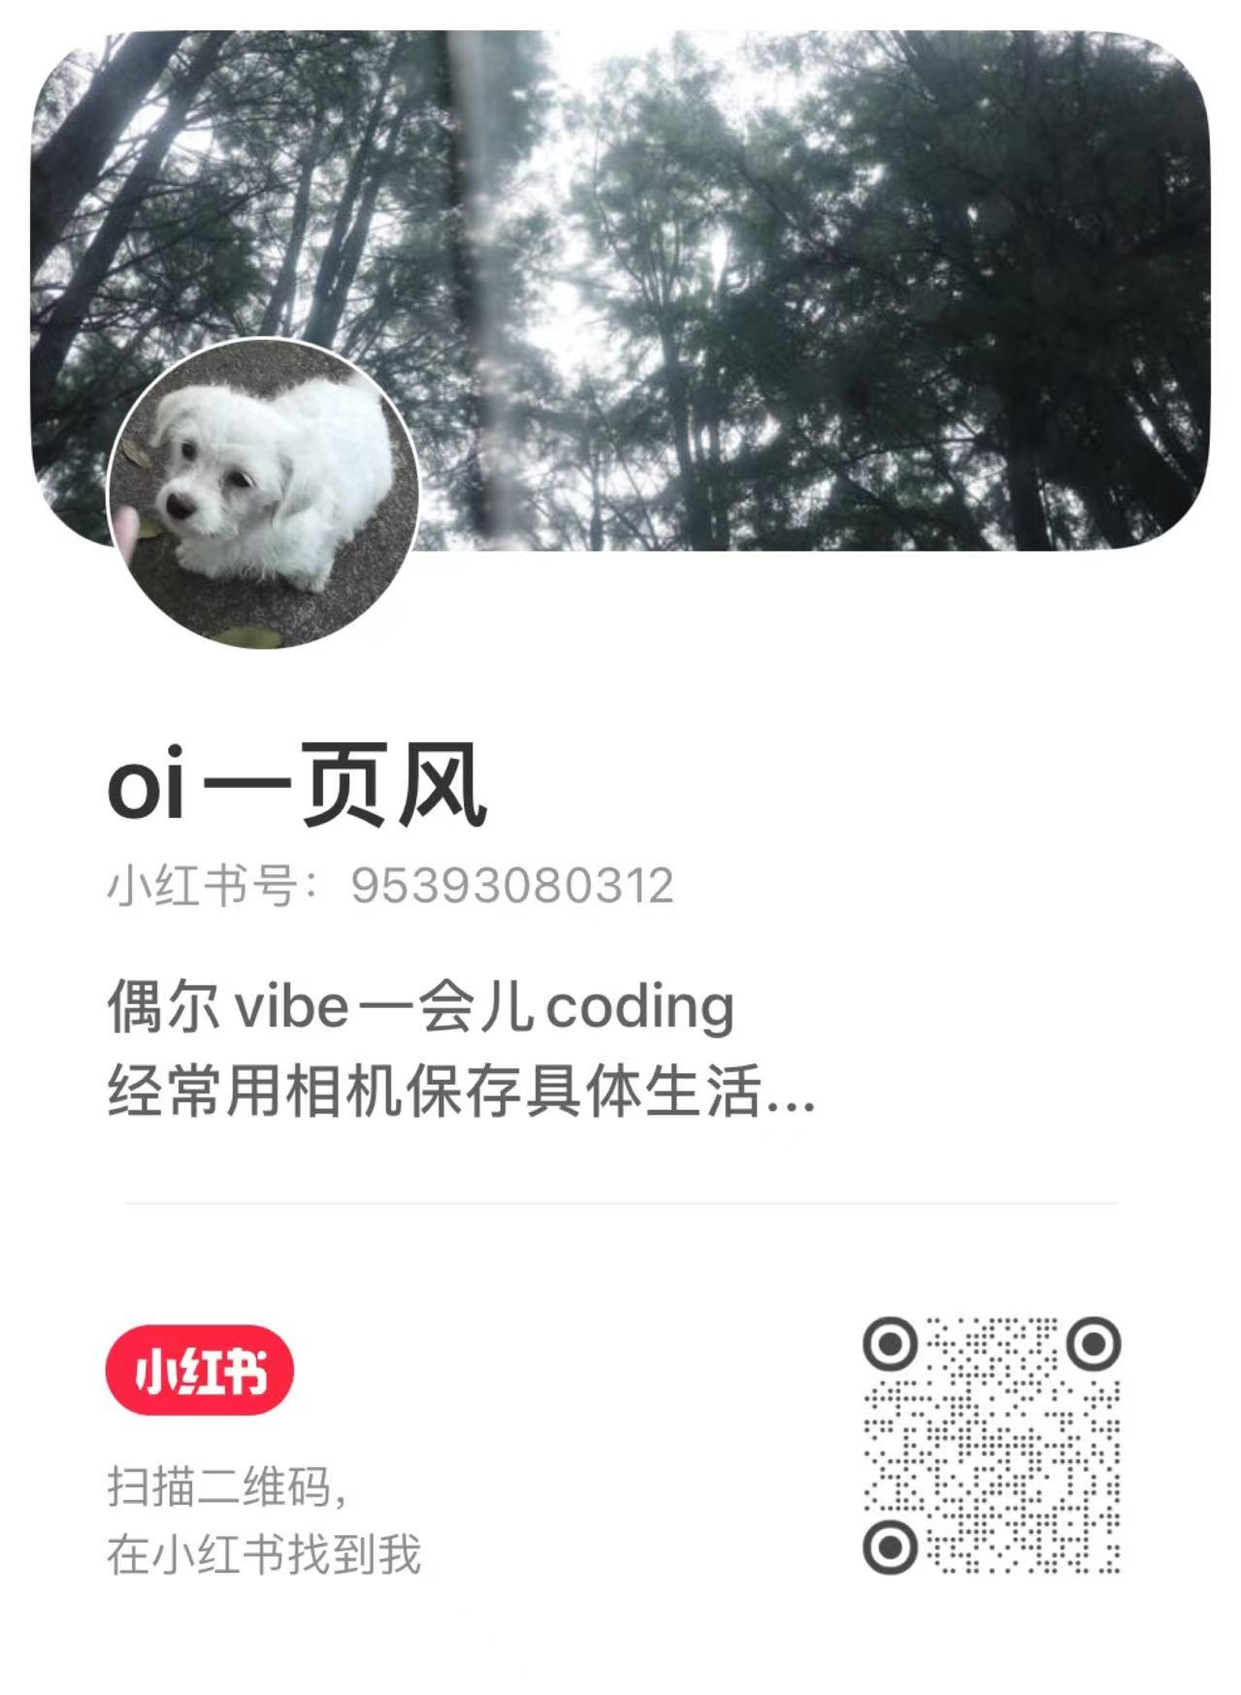
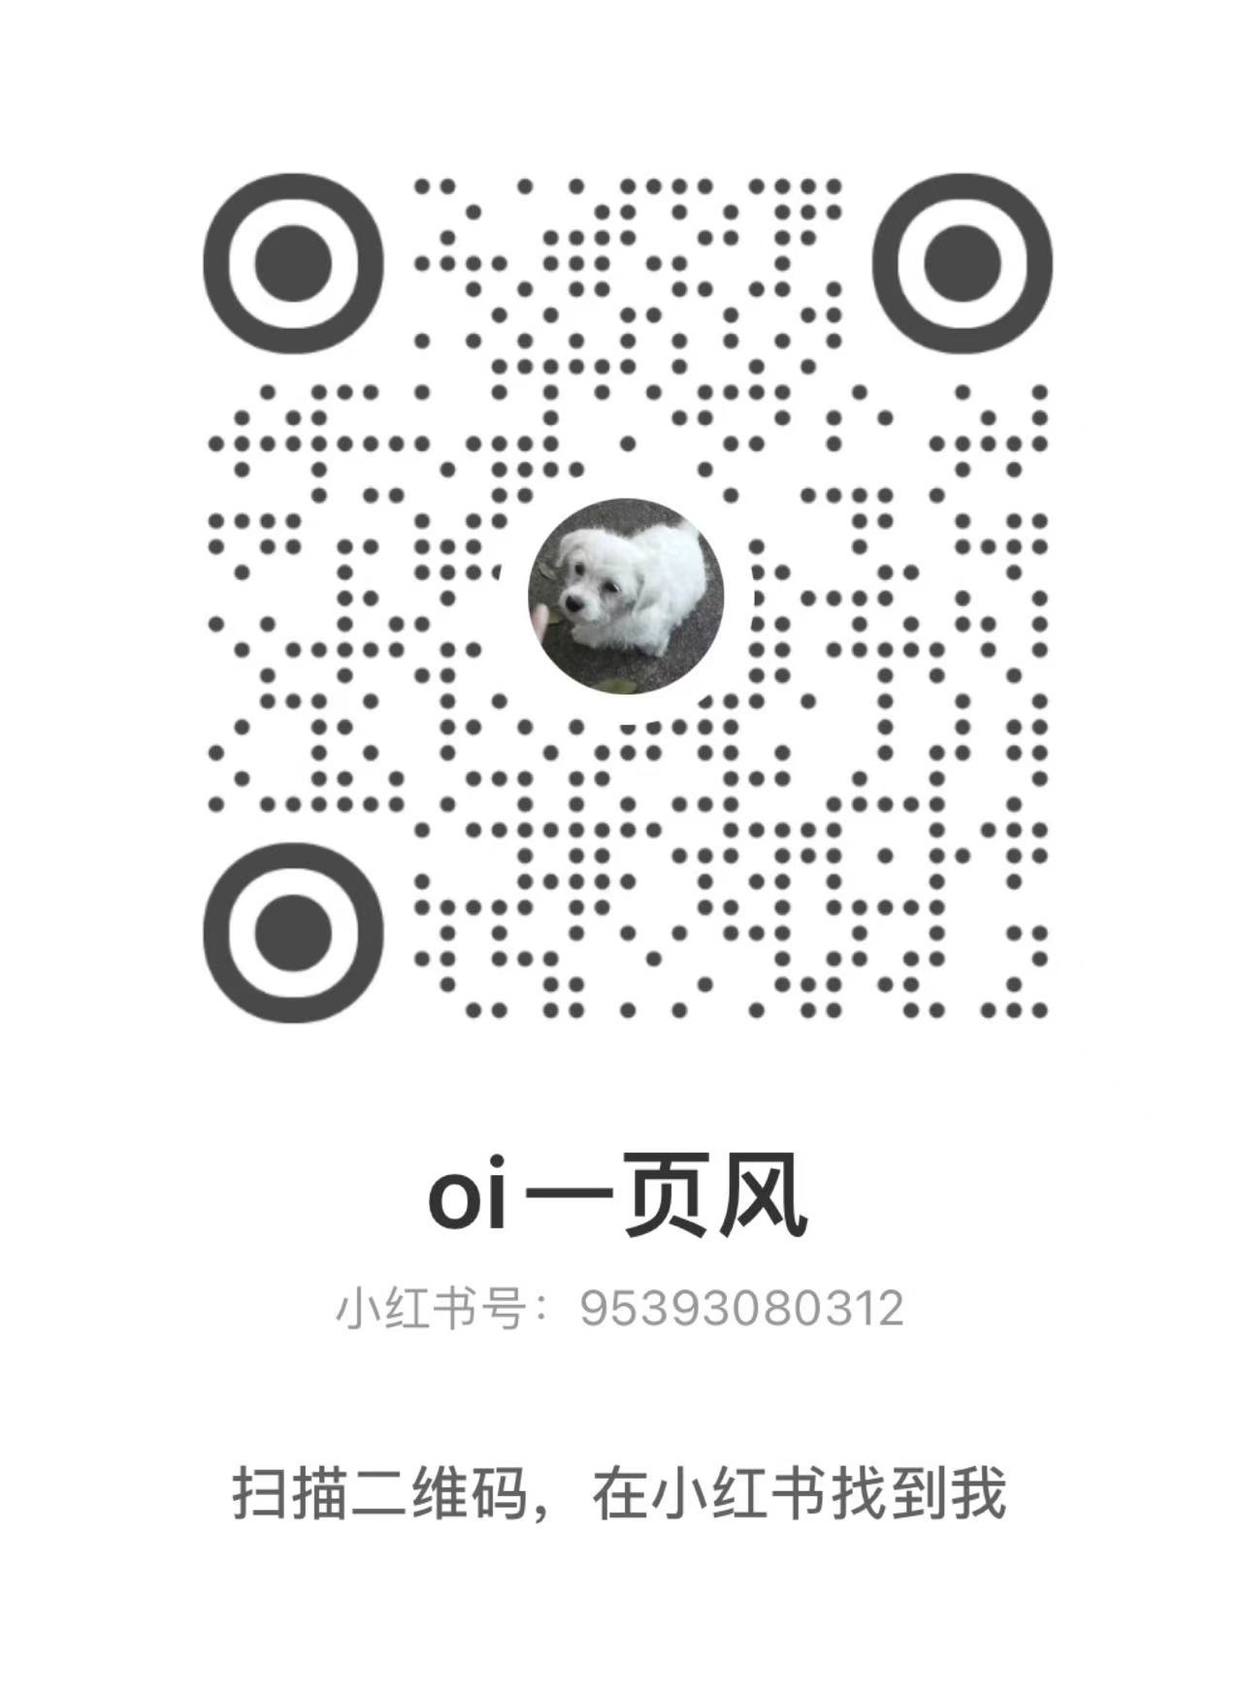
feat: add sponsor channels to app and site

diff --git a/website/src/styles.css b/website/src/styles.css
@@ -137,6 +137,7 @@ button { font: inherit; }
 .faq { padding-top:70px; }.faq .section-heading { max-width:none; }.faq .section-heading h2 { white-space:nowrap; }.faq-list { border-top:1px solid var(--line); }.faq details { border-bottom:1px solid var(--line); }.faq summary { min-height:78px;display:flex;align-items:center;justify-content:space-between;gap:22px;list-style:none;cursor:pointer;font-size:15px;font-weight:630; }.faq summary::-webkit-details-marker { display:none; }.faq summary span { position:relative;width:22px;height:22px;flex:none; }.faq summary span::before,.faq summary span::after { content:"";position:absolute;left:50%;top:50%;width:12px;height:1px;background:#827d74;transform:translate(-50%,-50%);transition:transform .18s ease; }.faq summary span::after { transform:translate(-50%,-50%) rotate(90deg); }.faq details[open] summary span::after { transform:translate(-50%,-50%) rotate(0); }.faq details p { max-width:720px;margin:-5px 0 26px;color:var(--muted);font-size:12px;line-height:1.8; }
 
 .final-cta { display:flex;flex-direction:column;align-items:center;text-align:center;padding-top:160px;padding-bottom:170px;border-top:1px solid var(--line); }.final-cta > img { width:76px;height:76px;margin-bottom:23px;border-radius:19px;box-shadow:0 18px 60px rgba(244,185,66,.17); }.final-cta h2 { margin:18px 0 32px; }.final-cta .primary-cta { text-align:left; }
+.sponsor-section { padding-top:0;padding-bottom:112px; }.sponsor-shell { position:relative;display:grid;grid-template-columns:minmax(0,.9fr) minmax(330px,1.1fr);gap:clamp(44px,7vw,104px);overflow:hidden;padding:clamp(30px,4vw,52px);border:1px solid rgba(244,185,66,.3);border-radius:24px;background:radial-gradient(circle at 0 100%,rgba(244,185,66,.14),transparent 38%),linear-gradient(135deg,#201d16,#171612 57%,#1c1a15);box-shadow:inset 0 1px rgba(255,255,255,.045); }.sponsor-shell::before { content:"";position:absolute;right:-88px;top:-110px;width:270px;height:270px;border:1px solid rgba(244,185,66,.15);border-radius:50%;box-shadow:0 0 0 28px rgba(244,185,66,.025),0 0 0 56px rgba(244,185,66,.018);pointer-events:none; }.sponsor-qr-column,.sponsor-list-column { position:relative;z-index:1; }.sponsor-qr-column h2 { margin:14px 0 17px;font-family:"Songti SC","STSong",serif;font-size:clamp(33px,3.6vw,51px);font-weight:650;letter-spacing:-.055em;line-height:1.12; }.sponsor-qr-column h2 em { color:var(--amber);font-style:normal; }.sponsor-qr-column > p:last-of-type { max-width:430px;margin:0;color:var(--muted);font-size:12px;line-height:1.8; }.sponsor-qr-card { width:168px;margin:26px 0 0;padding:8px;border:1px solid rgba(244,185,66,.38);border-radius:13px;background:#f4f0e7;box-shadow:0 15px 36px rgba(0,0,0,.24); }.sponsor-qr-card img { display:block;width:100%;height:auto;border-radius:7px; }.sponsor-qr-card figcaption { padding:9px 2px 1px;color:#5b4a2b;font:650 8px/1.3 "SFMono-Regular",Menlo,monospace;text-align:center; }.sponsor-list-column { align-self:stretch;display:flex;flex-direction:column;min-height:320px;padding:24px 26px;border-left:1px solid rgba(255,255,255,.1); }.sponsor-list-heading { display:flex;justify-content:space-between;align-items:baseline;gap:18px;padding-bottom:17px;border-bottom:1px solid rgba(255,255,255,.11); }.sponsor-list-heading span { color:#dcd5c8;font-family:"Songti SC","STSong",serif;font-size:21px;font-weight:650;letter-spacing:-.04em; }.sponsor-list { display:grid;gap:10px;margin:0;padding:19px 0;list-style:none; }.sponsor-list li { display:grid;grid-template-columns:26px 1fr;gap:13px;align-items:center;padding:13px 0;border-bottom:1px solid rgba(255,255,255,.07); }.sponsor-list li > b { color:var(--amber);font:650 9px/1 "SFMono-Regular",Menlo,monospace; }.sponsor-list li > div { display:grid;gap:5px; }.sponsor-list strong { color:#d5cec1;font-size:11px; }.sponsor-list small { color:#817b71;font-size:9px;line-height:1.5; }.sponsor-empty { min-height:74px; }.sponsor-note { margin:auto 0 0;color:#68635c;font-size:9px;line-height:1.65; }
 footer { display:grid;grid-template-columns:1fr 1.2fr auto;align-items:center;gap:26px;max-width:var(--max);margin:0 auto;padding:38px 0;border-top:1px solid var(--line);color:#77736b;font-size:10px; }.footer-brand img { width:36px;height:36px;border-radius:9px; }.footer-brand strong { color:#d9d3c8; }.footer-brand small { font-size:7px; }.footer-brand + p { margin:0; }.footer > div { display:flex;gap:18px; }.footer > small { grid-column:1/-1;color:#57544e;font-size:8px; }
 .site-footer { display:block;width:min(var(--max),calc(100% - 56px));padding:58px 0 30px; }
 .site-footer .footer-top { display:grid;grid-template-columns:minmax(230px,.72fr) minmax(560px,1.38fr);align-items:start;gap:clamp(72px,9vw,132px); }
@@ -164,10 +165,10 @@ footer { display:grid;grid-template-columns:1fr 1.2fr auto;align-items:center;ga
 [data-reveal] { opacity:0;transform:translateY(20px);transition:opacity .7s ease,transform .7s cubic-bezier(.2,.75,.2,1); }.hero [data-reveal]:nth-child(2) { transition-delay:.12s; }.workflow-list [data-reveal]:nth-child(2),.feature-grid [data-reveal]:nth-child(2) { transition-delay:.08s; }.workflow-list [data-reveal]:nth-child(3),.feature-grid [data-reveal]:nth-child(3) { transition-delay:.16s; }[data-reveal].is-visible { opacity:1;transform:translateY(0); }
 
 @media (max-width: 1040px) {
-  .site-header { padding:0 24px; }.hero { grid-template-columns:1fr;width:min(760px,calc(100% - 48px));padding-top:132px;text-align:center; }.hero-copy { display:grid;justify-items:center; }.hero .eyebrow { justify-content:center; }.product-stage { width:100%; }.real-window { transform:none; }.trust-rail { grid-template-columns:repeat(2,1fr); }.trust-rail > *:nth-child(2) { border-right:0; }.trust-rail > *:nth-child(n+3) { margin-top:14px;padding-top:20px;border-top:1px solid var(--line); }.trust-rail > *:nth-child(3) { padding-left:0; }.demo { grid-template-columns:1fr; }.demo-copy { max-width:690px; }.feature-card.wide { grid-template-columns:1fr; }.crop-settings { width:min(340px,100%);margin:4px auto 0; }.privacy-card { gap:25px; } footer { width:calc(100% - 48px); }.site-footer .footer-top { grid-template-columns:1fr;gap:48px; }.site-footer .footer-nav { max-width:680px; }
+  .site-header { padding:0 24px; }.hero { grid-template-columns:1fr;width:min(760px,calc(100% - 48px));padding-top:132px;text-align:center; }.hero-copy { display:grid;justify-items:center; }.hero .eyebrow { justify-content:center; }.product-stage { width:100%; }.real-window { transform:none; }.trust-rail { grid-template-columns:repeat(2,1fr); }.trust-rail > *:nth-child(2) { border-right:0; }.trust-rail > *:nth-child(n+3) { margin-top:14px;padding-top:20px;border-top:1px solid var(--line); }.trust-rail > *:nth-child(3) { padding-left:0; }.demo { grid-template-columns:1fr; }.demo-copy { max-width:690px; }.feature-card.wide { grid-template-columns:1fr; }.crop-settings { width:min(340px,100%);margin:4px auto 0; }.privacy-card { gap:25px; }.sponsor-shell { grid-template-columns:minmax(0,.9fr) minmax(300px,1fr);gap:38px; }.sponsor-list-column { padding:20px; } footer { width:calc(100% - 48px); }.site-footer .footer-top { grid-template-columns:1fr;gap:48px; }.site-footer .footer-nav { max-width:680px; }
 }
 @media (max-width: 760px) {
-  .site-header { height:66px;grid-template-columns:1fr auto; }.site-header nav,.github-link { display:none; }.header-download { min-height:36px; }.brand img { width:36px;height:36px;border-radius:9px; }.hero { width:calc(100% - 36px);padding:110px 0 64px; }.hero h1 { font-size:clamp(42px,12vw,61px); }.hero h1 em { display:inline-block; }.hero-lede { font-size:14px; }.hero-actions { flex-direction:column;gap:16px; }.product-stage { margin-top:15px; }.real-window { border-radius:12px; }.trust-rail { width:calc(100% - 36px); }.section { width:calc(100% - 36px);padding:88px 0; }.demo { gap:34px;padding-top:102px; }.demo-copy h2 { font-size:42px; }.demo-player { border-radius:14px; }.demo-player figcaption { min-height:42px;align-items:flex-start;flex-direction:column;justify-content:center;gap:4px; }.demo-toggle { right:12px;top:12px;width:38px;height:38px; }.section-heading { margin-bottom:38px; }.section-heading h2,.privacy h2,.final-cta h2 { font-size:42px; }.workflow-list,.feature-grid,.install-list,.support-grid { grid-template-columns:1fr; }.workflow-list li { min-height:auto; }.feature-card.wide { grid-column:auto;min-height:auto;padding-bottom:24px; }.feature-card { min-height:350px;padding:24px; }.feature-icon { height:210px; }.crop-settings { width:min(300px,100%);height:440px; }.privacy { width:100%;padding:86px 18px; }.privacy-card { min-height:0;grid-template-columns:1fr; }.privacy-orbit { width:300px; }.release-notice { grid-template-columns:1fr;gap:8px; }.support-card { min-height:250px; }.faq .section-heading h2 { white-space:normal; }.faq summary { font-size:13px; }.final-cta { padding-top:110px;padding-bottom:110px; } footer { width:calc(100% - 36px);grid-template-columns:1fr auto; }.footer-brand + p { display:none; }.footer > div { grid-column:1/-1;grid-row:2;flex-wrap:wrap;line-height:1.7; }.footer > small { grid-row:3; }.site-footer { display:block;padding:48px 0 26px; }.site-footer .footer-brand + p { display:block; }.site-footer .footer-nav { grid-template-columns:repeat(2,minmax(0,1fr));gap:38px 24px; }.site-footer .footer-bottom { flex-direction:column;gap:8px;margin-top:38px; }.footer-bottom small:last-child { max-width:none;text-align:left; }.legal-summary { grid-template-columns:1fr; }
+  .site-header { height:66px;grid-template-columns:1fr auto; }.site-header nav,.github-link { display:none; }.header-download { min-height:36px; }.brand img { width:36px;height:36px;border-radius:9px; }.hero { width:calc(100% - 36px);padding:110px 0 64px; }.hero h1 { font-size:clamp(42px,12vw,61px); }.hero h1 em { display:inline-block; }.hero-lede { font-size:14px; }.hero-actions { flex-direction:column;gap:16px; }.product-stage { margin-top:15px; }.real-window { border-radius:12px; }.trust-rail { width:calc(100% - 36px); }.section { width:calc(100% - 36px);padding:88px 0; }.demo { gap:34px;padding-top:102px; }.demo-copy h2 { font-size:42px; }.demo-player { border-radius:14px; }.demo-player figcaption { min-height:42px;align-items:flex-start;flex-direction:column;justify-content:center;gap:4px; }.demo-toggle { right:12px;top:12px;width:38px;height:38px; }.section-heading { margin-bottom:38px; }.section-heading h2,.privacy h2,.final-cta h2 { font-size:42px; }.workflow-list,.feature-grid,.install-list,.support-grid { grid-template-columns:1fr; }.workflow-list li { min-height:auto; }.feature-card.wide { grid-column:auto;min-height:auto;padding-bottom:24px; }.feature-card { min-height:350px;padding:24px; }.feature-icon { height:210px; }.crop-settings { width:min(300px,100%);height:440px; }.privacy { width:100%;padding:86px 18px; }.privacy-card { min-height:0;grid-template-columns:1fr; }.privacy-orbit { width:300px; }.release-notice { grid-template-columns:1fr;gap:8px; }.support-card { min-height:250px; }.faq .section-heading h2 { white-space:normal; }.faq summary { font-size:13px; }.final-cta { padding-top:110px;padding-bottom:72px; }.sponsor-section { padding-bottom:72px; }.sponsor-shell { grid-template-columns:1fr;gap:28px;padding:28px 22px; }.sponsor-qr-column { display:grid;justify-items:start; }.sponsor-qr-column h2 { font-size:38px; }.sponsor-list-column { min-height:0;padding:22px 0 0;border-top:1px solid rgba(255,255,255,.1);border-left:0; }.sponsor-qr-card { width:156px; }.faq .section-heading h2 { white-space:normal; } footer { width:calc(100% - 36px);grid-template-columns:1fr auto; }.footer-brand + p { display:none; }.footer > div { grid-column:1/-1;grid-row:2;flex-wrap:wrap;line-height:1.7; }.footer > small { grid-row:3; }.site-footer { display:block;padding:48px 0 26px; }.site-footer .footer-brand + p { display:block; }.site-footer .footer-nav { grid-template-columns:repeat(2,minmax(0,1fr));gap:38px 24px; }.site-footer .footer-bottom { flex-direction:column;gap:8px;margin-top:38px; }.footer-bottom small:last-child { max-width:none;text-align:left; }.legal-summary { grid-template-columns:1fr; }
 }
 @media (max-width: 420px) { .header-download span { display:none; }.hero h1 br { display:none; }.primary-cta { width:100%;justify-content:center; }.real-window { margin-inline:-7px; }.feature-card h3 { font-size:26px; }.demo-player figcaption span:last-child { display:none; } }
 @media (prefers-reduced-motion: reduce) { html { scroll-behavior:auto; } *,*::before,*::after { animation:none!important;transition-duration:.01ms!important;scroll-behavior:auto!important; } [data-reveal] { opacity:1;transform:none; } }

diff --git a/src/styles.css b/src/styles.css
@@ -46,8 +46,7 @@ button:not(:disabled):active { transform: scale(.975); transition-duration: 80ms
 .feedback-email-card { width: 100%; min-height: 58px; display: grid; grid-template-columns: 30px minmax(0,1fr) auto; align-items: center; gap: 9px; padding: 10px; border: 1px solid rgba(244,185,66,.26); border-radius: 11px; color: #ddd7cb; background: rgba(244,185,66,.065); text-align: left; cursor: pointer; transition: .16s ease; }
 .feedback-email-card:hover { border-color: rgba(244,185,66,.58); background: rgba(244,185,66,.12); }.feedback-email-card > svg { width: 18px; color: var(--amber); }.feedback-email-card > span { min-width: 0; display: grid; gap: 3px; }.feedback-email-card strong { font-size: 11px; }.feedback-email-card small { overflow: hidden; color: #aaa397; font-size: 9px; text-overflow: ellipsis; }.feedback-email-card > b { color: var(--amber-soft); font-size: 8px; font-weight: 600; }
 .feedback-issue-card { border-color: rgba(255,255,255,.11); background: rgba(255,255,255,.025); }.feedback-issue-card > svg { color: #c8c1b5; }.feedback-issue-card > b { color: #c8c1b5; }.feedback-issue-card:hover { border-color: rgba(255,255,255,.28); background: rgba(255,255,255,.065); }
-.feedback-social-card { display: grid; gap: 12px; margin-top: 10px; padding: 12px; border: 1px solid rgba(255,255,255,.1); border-radius: 11px; background: rgba(255,255,255,.025); }.feedback-social-card > div { display: grid; gap: 5px; }.feedback-social-label { width: fit-content; padding: 3px 6px; border-radius: 5px; color: #fff; background: #ff2442; font-size: 8px; font-weight: 750; }.feedback-social-card strong { font-size: 13px; }.feedback-social-card small { color: #aaa397; font-size: 9px; user-select: text; -webkit-user-select: text; }.feedback-social-card small b { color: var(--paper); font-family: 'SFMono-Regular','Menlo',monospace; }.feedback-social-card p { margin: 2px 0 0; color: #8f897f; font-size: 9px; line-height: 1.55; }
-.feedback-social-card img { display: block; width: 100%; border-radius: 9px; background: #fff; }.feedback-privacy-note { display: block; padding: 11px 3px 1px; color: #777168; font-size: 8px; line-height: 1.5; text-align: center; }
+.feedback-social-card { display: grid; gap: 9px; margin-top: 10px; padding: 12px; border: 1px solid rgba(255,255,255,.1); border-radius: 11px; background: rgba(255,255,255,.025); }.feedback-support-hint { margin: 0; color: #8f897f; font-size: 9px; line-height: 1.55; }.feedback-code-grid { display: grid; grid-template-columns: repeat(2, minmax(0, 1fr)); gap: 8px; }.feedback-code-card { min-width: 0; display: grid; justify-items: center; align-content: start; gap: 5px; padding: 9px 6px; border: 1px solid rgba(255,255,255,.08); border-radius: 9px; background: rgba(0,0,0,.11); text-align: center; }.feedback-social-label, .feedback-wechat-label { width: fit-content; padding: 3px 6px; border-radius: 5px; color: #fff; font-size: 8px; font-weight: 750; }.feedback-social-label { background: #ff2442; }.feedback-wechat-label { background: #07c160; }.feedback-qr-image { display: block; width: 114px; max-width: 100%; height: auto; border-radius: 7px; background: #fff; }.feedback-wechat-qr-image { aspect-ratio: 1; object-fit: cover; object-position: center 34%; }.feedback-code-card strong { overflow: hidden; max-width: 100%; color: #ded8cd; font-size: 10px; text-overflow: ellipsis; white-space: nowrap; }.feedback-code-card small { color: #aaa397; font-size: 8px; line-height: 1.35; user-select: text; -webkit-user-select: text; }.feedback-code-card small b { color: var(--paper); font-family: 'SFMono-Regular','Menlo',monospace; }.feedback-privacy-note { display: block; padding: 11px 3px 1px; color: #777168; font-size: 8px; line-height: 1.5; text-align: center; }
 .brand { display: flex; align-items: center; gap: 10px; min-width: 0; }
 .brand-mark { width: 36px; height: 36px; display: grid; place-items: center; color: var(--ink); background: var(--amber); border-radius: 10px; transform: rotate(-3deg); box-shadow: inset 0 0 0 1px rgba(255,226,160,.72), 0 7px 22px rgba(244,185,66,.18); }
 .brand-mark svg { width: 21px; transform: rotate(3deg); }
@@ -487,4 +486,3 @@ button:not(:disabled):active { transform: scale(.975); transition-duration: 80ms
 @media (forced-colors: active) {
   .material-context-menu { backdrop-filter: none; background: #211f1b; }
 }
-

diff --git a/src/App.tsx b/src/App.tsx
@@ -12,6 +12,7 @@ import { ClearIcon, CloseIcon, ExportIcon, FeedbackIcon, FilmIcon, FolderIcon, I
 import { ExportDestinationPicker, type ExportDestinationChoice } from './components/ExportDestinationPicker'
 import { checkForUpdate, currentAppVersion, type AvailableUpdate } from './releaseUpdate'
 import xiaohongshuContactImage from './assets/xiaohongshu-contact.jpg'
+import wechatSponsorImage from './assets/wechat-sponsor.jpg'
 
 interface ExportState {
   visible: boolean
@@ -826,8 +827,21 @@ export function App() {
                 <button className="feedback-email-card feedback-issue-card" onClick={openIssueFeedback}><IssueIcon /><span><strong>GitHub Issue</strong><small>Bug 报告与功能建议</small></span><b>公开反馈</b></button>
               </div>
               <div className="feedback-social-card">
-                <div><span className="feedback-social-label">小红书</span><strong>oi一页风</strong><small>小红书号：<b>95393080312</b></small><p>可以在小红书搜索账号，或使用手机扫描下方二维码。</p></div>
-                <img src={xiaohongshuContactImage} alt="小红书账号 oi一页风 的个人页与二维码" />
+                <p className="feedback-support-hint">也可以在小红书联系我；如果 Lives 对你有帮助，欢迎通过微信赞赏支持后续开发。</p>
+                <div className="feedback-code-grid">
+                  <section className="feedback-code-card">
+                    <span className="feedback-social-label">小红书</span>
+                    <img className="feedback-qr-image" src={xiaohongshuContactImage} alt="小红书账号 oi一页风 的个人页二维码" />
+                    <strong>oi一页风</strong>
+                    <small>小红书号：<b>95393080312</b></small>
+                  </section>
+                  <section className="feedback-code-card feedback-wechat-card">
+                    <span className="feedback-wechat-label">微信赞赏</span>
+                    <img className="feedback-qr-image feedback-wechat-qr-image" src={wechatSponsorImage} alt="mugu 的微信赞赏码" />
+                    <strong>支持 Lives</strong>
+                    <small>微信扫一扫，感谢你的支持</small>
+                  </section>
+                </div>
               </div>
               <small className="feedback-privacy-note">发送截图或日志前，请先移除私人素材和个人信息。</small>
             </div>}

diff --git a/website/src/index.html b/website/src/index.html
@@ -200,6 +200,27 @@
         <h2>下一张会动的照片，<br />从三个瞬间开始。</h2>
         <a class="primary-cta" href="__LIVES_DOWNLOAD_URL__"><svg aria-hidden="true" viewBox="0 0 24 24"><path d="M12 3v12m0 0 5-5m-5 5-5-5M5 20h14" /></svg><span><strong>前往 GitHub 下载</strong><small>Apple Silicon · 邀请制预览</small></span></a>
       </section>
+
+      <section class="sponsor-section section" aria-labelledby="sponsor-title">
+        <div class="sponsor-shell" data-reveal>
+          <div class="sponsor-qr-column">
+            <p class="eyebrow">微信赞赏</p>
+            <h2 id="sponsor-title">Lives in lives<br /><em>感谢您的支持！</em></h2>
+            <p>如果 Lives 帮你留住了一个瞬间，欢迎微信扫一扫，支持独立开发继续向前。</p>
+            <figure class="sponsor-qr-card">
+              <img src="assets/wechat-sponsor-qr.jpg" alt="mugu 的微信赞赏码" width="520" height="520" loading="lazy" />
+              <figcaption>微信扫一扫 · 自愿赞赏</figcaption>
+            </figure>
+          </div>
+          <aside class="sponsor-list-column" aria-label="赞赏鸣谢名单">
+            <div class="sponsor-list-heading"><p class="eyebrow">Sponsorship Roll</p><span>鸣谢名单</span></div>
+            <ol class="sponsor-list">
+              <li class="sponsor-empty"><b>01</b><div><strong>等待第一份支持</strong><small>每一份赞赏，都会变成下一次迭代的时间。</small></div></li>
+            </ol>
+            <p class="sponsor-note">名单仅展示主动授权公开的昵称；感谢会定期更新。</p>
+          </aside>
+        </div>
+      </section>
     </main>
 
     <footer class="site-footer">
